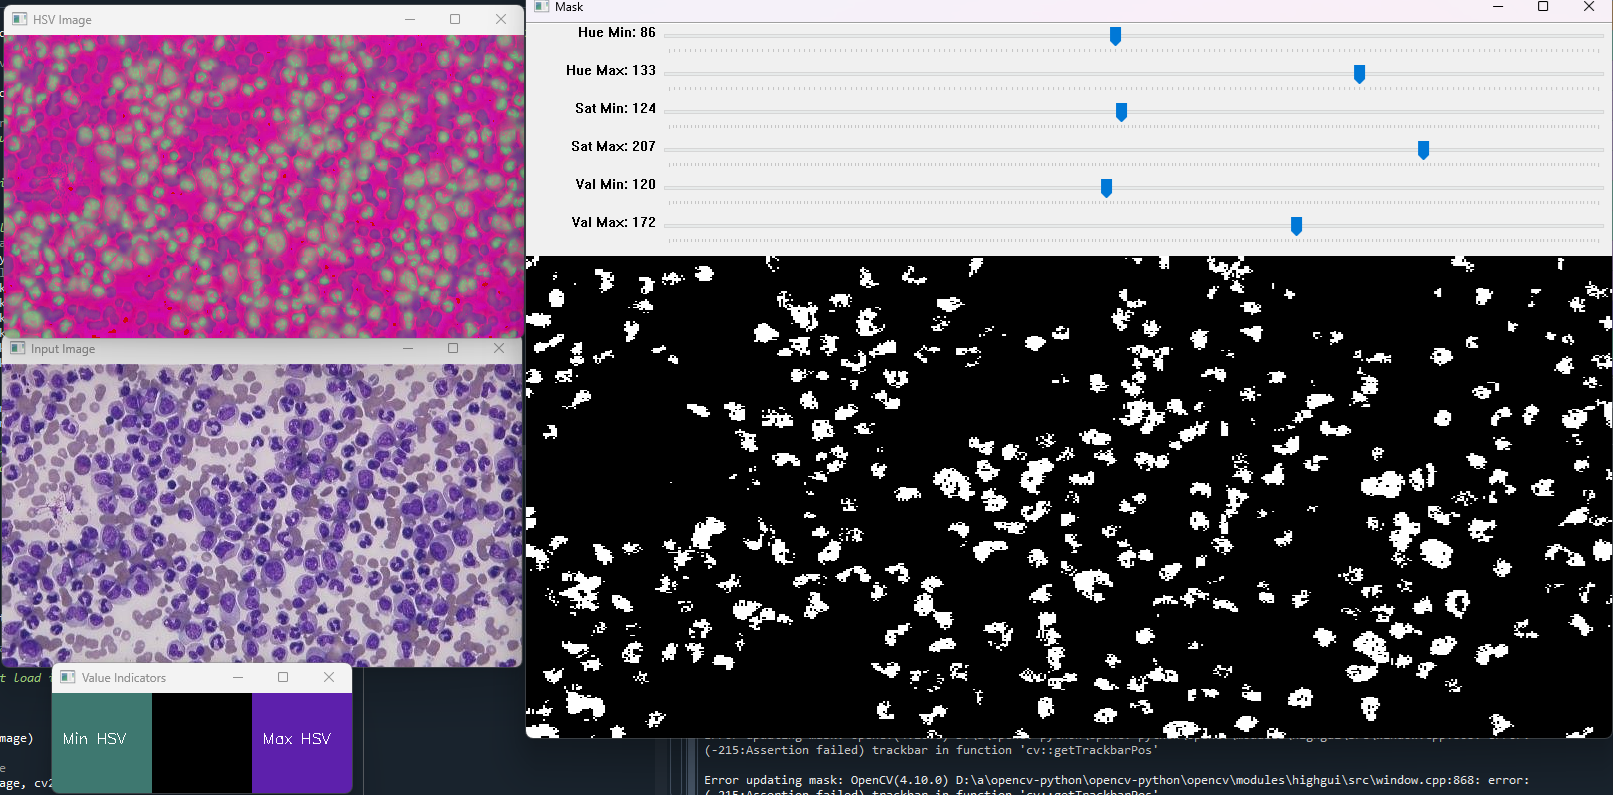
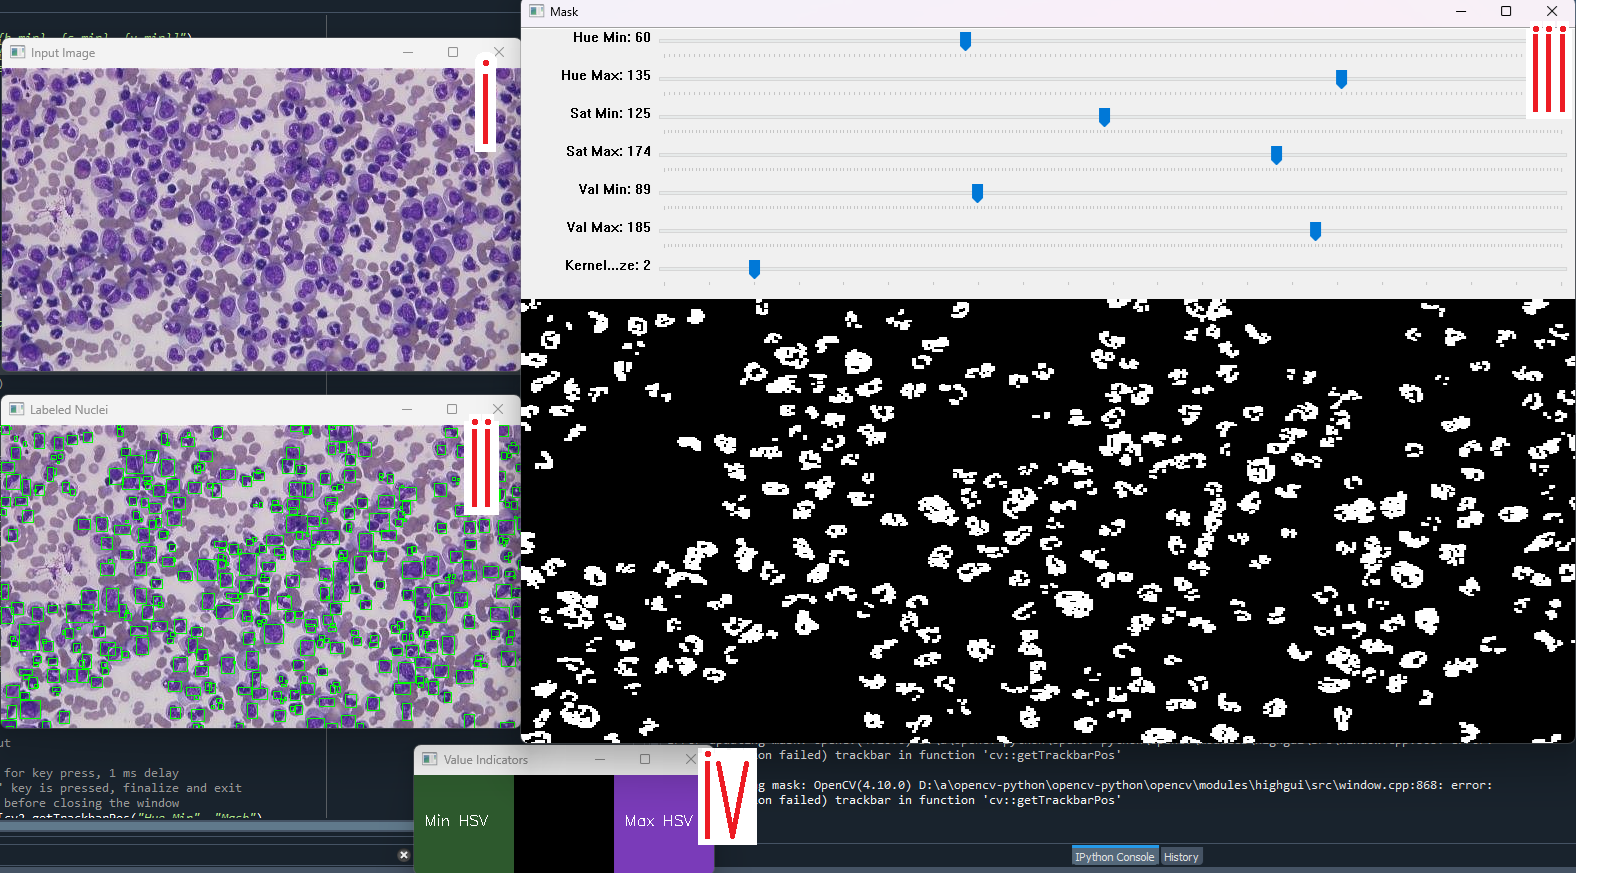
Integrated cleaning into the selector + display the labelled nuclei to update alongside the mask for better usage

diff --git a/NucleiCounter.py b/NucleiCounter.py
@@ -6,31 +6,20 @@ import os
 
 # Set default values
 default_image_path = "sample.png"  # Change to your image path
-default_printAllCircledNuclei = True  # Default to print all highlighted nuclei
-default_cleanMask = True  # Default to clean the mask
 
 # Input for image path
 image_path = input(f"Enter image path (default: {default_image_path}): ") or default_image_path
 imageName, fileType = os.path.splitext(os.path.basename(image_path))
 
-# Input for printAllCircledNuclei
-printAllCircledNuclei_input = input(f"Do you want to print all highlighted nuclei (default: {default_printAllCircledNuclei})? (y/n): ")
-printAllCircledNuclei = printAllCircledNuclei_input.lower() == 'y' if printAllCircledNuclei_input else default_printAllCircledNuclei
-
-# Input for cleanMask
-cleanMask_input = input(f"Do you want to clean the mask (default: {default_cleanMask})? (y/n): ")
-cleanMask = cleanMask_input.lower() == 'y' if cleanMask_input else default_cleanMask
 
 # Output results to verify
 print(f"Image Path: {image_path}")
-print(f"Print All Circled Nuclei: {printAllCircledNuclei}")
-print(f"Clean Mask: {cleanMask}")
 
 #endregion
 
 #region Functions
 
-# Function to update the mask with trackbar values
+# Function to update the mask and the output image with tracked nuclei
 def update_mask(x):
     try:
         # Get trackbar positions only if the window is still open
@@ -41,11 +30,15 @@ def update_mask(x):
             s_max = cv2.getTrackbarPos("Sat Max", "Mask")
             v_min = cv2.getTrackbarPos("Val Min", "Mask")
             v_max = cv2.getTrackbarPos("Val Max", "Mask")
+            kernel_size = cv2.getTrackbarPos("Kernel Size", "Mask")
 
             # Apply threshold based on current trackbar positions
             lower_purple = np.array([h_min, s_min, v_min])
             upper_purple = np.array([h_max, s_max, v_max])
             mask = cv2.inRange(hsv_image, lower_purple, upper_purple)
+
+            kernel = np.ones((kernel_size, kernel_size), np.uint8)
+            mask = cv2.morphologyEx(mask, cv2.MORPH_OPEN, kernel, iterations=1)
 
             # Display the mask
             cv2.imshow("Mask", mask)
@@ -64,6 +57,21 @@ def update_mask(x):
             # Show the color squares
             cv2.imshow("Value Indicators", color_square)
 
+            # Use connected components to label each detected nucleus in the mask
+            num_labels, labels, stats, centroids = cv2.connectedComponentsWithStats(mask, connectivity=8)
+
+            # Make a copy of the original image to draw on
+            output_image = image.copy()
+
+            # Draw bounding boxes around detected nuclei and label each one
+            for i in range(1, num_labels):  # Skip the background label (label 0)
+                x, y, w, h, area = stats[i]
+                cv2.rectangle(output_image, (x, y), (x + w, y + h), (0, 255, 0), 1)
+                # cv2.putText(output_image, str(i), (x, y - 10), cv2.FONT_HERSHEY_SIMPLEX, 0.1, (0, 0, 255), 2)
+
+            # Show the dynamically updated output image
+            cv2.imshow("Labeled Nuclei", output_image)
+
     except Exception as e:
         print(f"Error updating mask: {e}")
 
@@ -78,6 +86,7 @@ def done_callback():
         s_max = cv2.getTrackbarPos("Sat Max", "Mask")
         v_min = cv2.getTrackbarPos("Val Min", "Mask")
         v_max = cv2.getTrackbarPos("Val Max", "Mask")
+        kernel_size = cv2.getTrackbarPos("Kernel Size", "Mask")
 
         # Set the lower and upper bounds for masking using trackbar values
         lower_purple = np.array([h_min, s_min, v_min])
@@ -85,6 +94,7 @@ def done_callback():
         
         print(f"Final HSV Min: [{h_min}, {s_min}, {v_min}]")
         print(f"Final HSV Max: [{h_max}, {s_max}, {v_max}]")
+        print(f"Final Kernel Size: {kernel_size}")
 
     # Close all windows
     cv2.destroyAllWindows()
@@ -96,19 +106,22 @@ def done_callback():
 # Load the image
 image = cv2.imread(image_path)
 
+# Display the input image
+cv2.imshow("Input Image", image)
+
 # Check if the image was loaded successfully
 if image is None:
     print(f"Error: Could not load image at {image_path}")
     exit()
 
 # Display the input image
-cv2.imshow("Input Image", image)
+#cv2.imshow("Input Image", image)
 
 # Convert to HSV color space
 hsv_image = cv2.cvtColor(image, cv2.COLOR_BGR2HSV)
 
 # Display the HSV image for debugging
-cv2.imshow("HSV Image", hsv_image)
+#cv2.imshow("HSV Image", hsv_image)
 
 # Create a resizable window and trackbars for adjusting HSV ranges
 cv2.namedWindow("Mask", cv2.WINDOW_NORMAL)  # Make window resizable
@@ -118,6 +131,7 @@ cv2.createTrackbar("Sat Min", "Mask", 0, 255, update_mask)
 cv2.createTrackbar("Sat Max", "Mask", 255, 255, update_mask)
 cv2.createTrackbar("Val Min", "Mask", 0, 255, update_mask)
 cv2.createTrackbar("Val Max", "Mask", 255, 255, update_mask)
+cv2.createTrackbar("Kernel Size", "Mask", 1, 20, update_mask)  # Trackbar for kernel size
 
 # Create a resizable window for the value indicators
 cv2.namedWindow("Value Indicators", cv2.WINDOW_NORMAL)  # Make window resizable
@@ -136,38 +150,13 @@ while True:
         upper_purple = np.array([cv2.getTrackbarPos("Hue Max", "Mask"),
             cv2.getTrackbarPos("Sat Max", "Mask"),
             cv2.getTrackbarPos("Val Max", "Mask")])
+        kernel_size = cv2.getTrackbarPos("Kernel Size", "Mask")
         done_callback()
         break
-    elif key == 27:  # ESC key to exit
-        cv2.destroyAllWindows()
-        exit()
-
-# Get the lower_purple and upper_purple hsv values from the trackbars
-# Moved this part into done_callback to ensure window is open
-# Removed the redundant code since it's handled in done_callback
 
 # Threshold the image to create a binary mask for purple regions
 mask = cv2.inRange(hsv_image, lower_purple, upper_purple)
-
-
-
-
-
-# Optional: Morphological opening to reduce small noise in mask
-# MODIFY THIS EG IF YOU WANT SMALL ONES, AS NUCLEI MAY BE VERY SMALL SO WE MAY NOT WANT TO REMOVE THEM
-if(cleanMask):
-    kernel = np.ones((2, 2), np.uint8)
-    cleaned_mask = cv2.morphologyEx(mask, cv2.MORPH_OPEN, kernel, iterations=1)
-else:
-    cleaned_mask = mask # quick and dirty if you just want to keep it the same
-
-
-
-
-
-
-# Display the mask for debugging
-cv2.imshow("Cleaned Mask", cleaned_mask)
+cleaned_mask = cv2.morphologyEx(mask, cv2.MORPH_OPEN, np.ones((kernel_size, kernel_size), np.uint8), iterations=1)
 
 # Use connected components to label each detected nucleus in the mask
 num_labels, labels, stats, centroids = cv2.connectedComponentsWithStats(cleaned_mask, connectivity=8)
@@ -175,9 +164,7 @@ num_labels, labels, stats, centroids = cv2.connectedComponentsWithStats(cleaned_
 # Draw bounding boxes around detected nuclei and label each one
 for i in range(1, num_labels):  # Skip the background label (label 0)
     x, y, w, h, area = stats[i]
-    if printAllCircledNuclei or 50 < area < 1000:  # Filter nuclei based on area
-        cv2.rectangle(image, (x, y), (x + w, y + h), (0, 255, 0), 1)
-        # cv2.putText(image, str(i), (x, y - 10), cv2.FONT_HERSHEY_SIMPLEX, 0.1, (0, 0, 255), 2)
+    cv2.rectangle(image, (x, y), (x + w, y + h), (0, 255, 0), 1)
 
 # Construct the output filename using imageName and fileType
 output_filename = f"{imageName}_labeled{fileType}"
@@ -190,4 +177,3 @@ print(f"Labeled image saved as '{output_filename}'")
 cv2.imshow("Labeled Nuclei", image)
 cv2.waitKey(0)
 cv2.destroyAllWindows()
-

diff --git a/ReadMe.md b/ReadMe.md
@@ -35,11 +35,17 @@ python nuclei_detection.py
 
 ![MaskSelector](./docs/images/2_MaskSelector.png)
 
-3. A window will pop up with the original image and a mask of the detected nuclei. You can adjust the HSV values using the trackbars to fine-tune the detection. Use the Value Indicators to help you find the right values. 
+3. A window will pop up with:
+   1. The original image
+   2. The Labelled Nuclei
+   3. A mask selector, which will allow you to select the regions of the image that contain the nuclei, as determined by its HSV values (and a kernel size = degree of cleaning)
+   4. Value Indicators indicating the max and min hsv values
    
-4. Then when the mask looks good, press `d` (for done) to continue.
+4. Use this to adjust the mask to only include the nuclei, use the value indicators to hepl you select a valid colour range, then compare the mask and labelled nuclei against the input image
+   
+5. Then when the mask looks good, press `d` (for done) to continue.
    
 ![Output](./docs/images/3_Output.png)
 
-5. You will now see the cleaned mask that was used (if you chose to clean it), the original image with bounding boxes around the detected nuclei, and the number of nuclei found outputted in the console.
-6. The output image will be saved in the same directory as the script with the same name as the input image but with `_labeled` appended to the name.
+6. In the console you will now see the  HSV Min, HSV Max, and Kernel Size values you selected (for reference) alongside the number of nuclei detected.
+7. The output image will be saved in the same directory as the script with the same name as the input image but with `_labeled` appended to the name.
